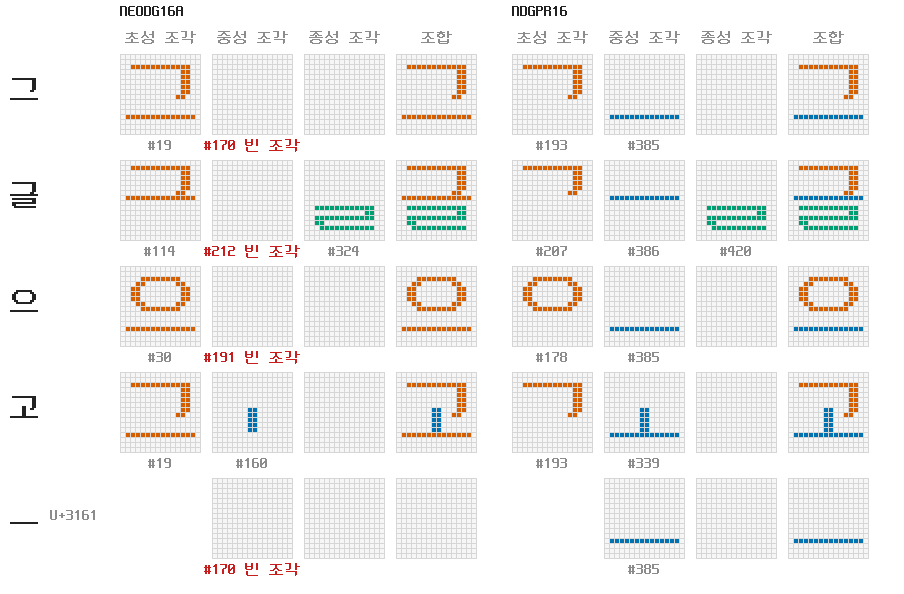
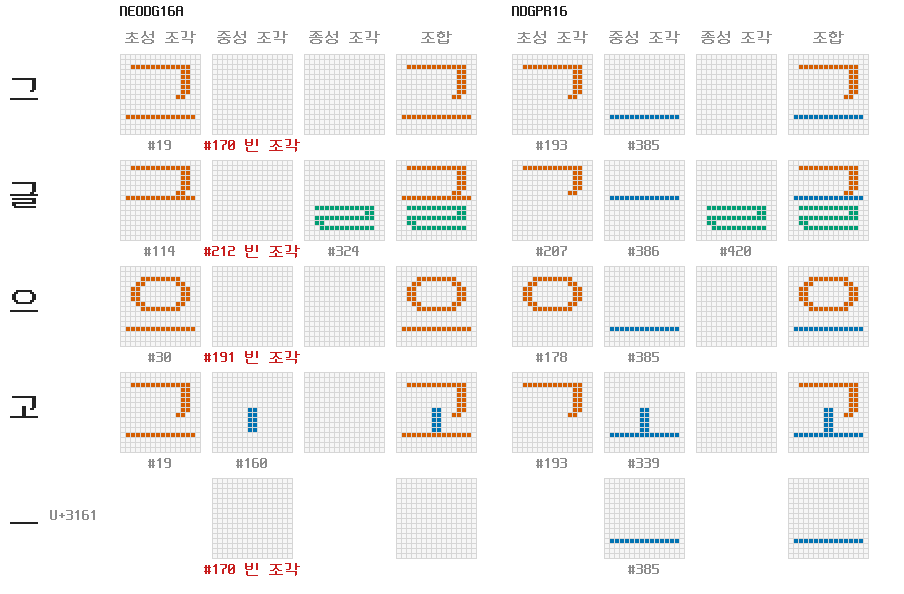
Review round 1: Figure 1 caption (글 bar in both pieces, 꽃), method details from the code (strict pass, speck rule, reassign once, contour assignment order, 2 bpp branch, jamoseg unused), the compat ㅡ fix checked, CPC-400S and NanumSquareRound coverage, research numbers marked, EN tables to match KO;

Changed region(s): [[0.7743, 0.7879, 0.8673, 0.9394], [0.3407, 0.7879, 0.4336, 0.9394]]

diff --git a/tools/doc_figures_split.py b/tools/doc_figures_split.py
@@ -5,7 +5,8 @@
 
 Reads only OFL-licensed fonts of this repository (ALLOWED below; their licence texts sit beside them):
   ttf/nanumgothic/NanumGothic-Regular.ttf  the outline font: baked to 1 bpp precomposed cells by tools/mkfont.py's
-                                           render() (the --clip-cell bake) and fitted to 8x4x4 by jamoset.fit_font,
+                                           render() (mkfont.choose_ascent, no nudge: --clip-cell with that ascent
+                                           given as --ascent) and fitted to 8x4x4 by jamoset.fit_font,
                                            the function `jamoset.py --from-svf` runs (OFL.txt)
   svf/dos/NEODG16.SVF                      Neo Dunggeunmo 16 px precomposed: the comparison and the labels (OFL.TXT)
   svf/dos/NEODG16A.SVF                     its 8x4x4 jamo set, made by `jamoset.py --from-svf` (OFL.TXT)
@@ -149,13 +150,26 @@ class JamoFace:
         return J.compose(self.f, self.t, cp)
 
 
+_FONTS = {}
+
+
+def font_at(size):
+    """(ImageFont, ascent) of NanumGothic Regular at @p size px: the font's ascent rule mkfont.choose_ascent for a
+    @p size px cell (mkfont --clip-cell without --ascent would move it further with fit_ascent; the figures keep the
+    plain rule, as `--ascent` with that value does)."""
+    if size not in _FONTS:
+        import mkfont
+        font = ImageFont.truetype(path_of(TTF), size)
+        _FONTS[size] = (font, mkfont.choose_ascent(font, size))
+    return _FONTS[size]
+
+
 def bake(size, ch, mono=False):
-    """@p ch of NanumGothic Regular drawn by mkfont.render into a @p size px square cell with the font's ascent rule
-    (mkfont.choose_ascent) and no nudge (--clip-cell), packed to 1 bpp by mkfont.pack_glyph. @p mono: FreeType's
-    monochrome hinting (mkfont --mono-hint)."""
+    """@p ch of NanumGothic Regular drawn by mkfont.render into a @p size px square cell at font_at's ascent with no
+    nudge (as --clip-cell), packed to 1 bpp by mkfont.pack_glyph. @p mono: FreeType's monochrome hinting
+    (mkfont --mono-hint)."""
     import mkfont
-    font = ImageFont.truetype(path_of(TTF), size)
-    ascent = mkfont.choose_ascent(font, size)
+    font, ascent = font_at(size)
     old = mkfont.MONO_HINT
     mkfont.MONO_HINT = mono
     try:
@@ -401,7 +415,7 @@ def fig_blank(lab, neo, pro):
                 lab.centre(d, x + cw // 2, y + geo.h * sc + 4, note, FRAME if not (cell and any(cell)) else GREY)
                 if cell:
                     layers.append((cell, colour))
-            if len(parts) < 3:
+            if ch != "ㅡ" and len(parts) < 3:  # a syllable without a final: an empty final box
                 x = x0 + 2 * (cw + gap)
                 bitmap(d, face.geo, x, y, [], sc)
             x = x0 + 3 * (cw + gap)

diff --git a/docs/jamo-split.md b/docs/jamo-split.md
@@ -8,8 +8,10 @@ from a precomposed font, **jamo splitting** (자모 분리), means recovering pi
 describes how the tools of this repository do it, how each kind of source fares, what they do poorly, and what earlier
 attempts taught.
 
-Every number below is measured with the repository's tools (the command or the document it comes from is named) or cited
-from the recipe documents, which record their own runs. The figures are drawn by `python3 -I tools/doc_figures_split.py`
+Chapters 1 to 3 and 6 use numbers measured with the repository's tools (the command or the document it comes from is
+named) or cited from the recipe documents, which record their own runs. Chapter 5 and the numbers marked "in research" in
+chapters 3 and 4 come from earlier research runs, partly on proprietary fonts; they are reported as findings and cannot be
+reproduced from this repository. The figures are drawn by `python3 -I tools/doc_figures_split.py`
 from OFL fonts of this repository only (NanumGothic Regular, Neo Dunggeunmo, Neo Dunggeunmo Pro); `--check` re-renders them
 and compares byte for byte.
 
@@ -48,13 +50,16 @@ syllable by syllable is approximated: a shared piece is a compromise between the
 pieces). Columns: 완성형 = the precomposed glyph; 초성 / 중성 / 종성 조각 = the initial / medial / final piece (# = piece
 number); 조합 (색) = the pieces overlaid (black where two pieces overlap); 차이 = the difference (grey both, orange only in
 the precomposed glyph, sky blue only in the composition). Over the 2,350 KS X 1001 syllables this fit is 15,336 bytes,
-225 syllables exact, mean IoU 0.772. Note 글: the medial ㅡ piece has only stray dots and the bar sits in the final piece.*
+225 syllables exact, mean IoU 0.772. Note 글: both the medial ㅡ piece (#212, with stray dots) and the final piece
+(#324) carry a bar one row below the glyph's own bar, so the composition draws the bar twice in the same wrong row and misses
+the glyph's row (IoU 0.513). In 꽃 the medial ㅗ piece (#223) keeps only a short stem; the final piece draws the bar.*
 
 ### 1.2 Why it is hard
 
 - **Strokes overlap and touch.** In the precomposed glyph the jamo share pixels, so a pixel's owner is not written
   anywhere. Where an initial's foot touches the vowel's bar, the bar can be fitted to either piece and the composition is the
-  same: the fit picks whatever reduces the error, which need not be the jamo the pixel belongs to (figure 1, 글).
+  same: the fit puts a stroke wherever it lowers the error, which need not be the jamo the stroke belongs to (figure 1:
+  the ㅡ bar of 글 in both the medial and the final piece, the ㅗ bar of 꽃 in the final piece).
 - **The same jamo changes shape by context.** The ㄱ of 가, 고 and 각 differ. A layout with few sets forces syllables
   that drew the jamo differently to share a piece. The designer's own grouping of contexts is not in the font
   ([Glyphs forum on divergent Hangul composition setups](https://forum.glyphsapp.com/t/divergent-hangeul-composition-setups/29856)).
@@ -86,7 +91,7 @@ the precomposed glyph, sky blue only in the composition). Over the 2,350 KS X 10
 | `tools/jamofit.py` | the 1 bpp fit (`fit_pieces`), the GSUB mask (`mask_pieces`), the metrics (`iou`, `f1_tol1`, `quality_report`) |
 | `tools/jamoadapt.py` | the adaptive set system: classes by clustering, sets split where the syllables sharing a piece disagree |
 | `tools/jamoaa.py` | 2 bpp: exact-area rasteriser, contours assigned to jamo, median consensus, level refinement under the maximum |
-| `tools/jamoseg.py` | outline segmentation of a syllable into its jamo (library, used by `jamoaa.py` and `jamovec.py`) |
+| `tools/jamoseg.py` | outline segmentation of a syllable into its jamo with path clipping (library; imported by no tool, only by `tools/test_jamoaa.py`; `jamoaa.py` has its own contour assignment, which `jamovec.py` uses) |
 | `tools/jamovec.py` | vector fit: pieces as outlines chosen once at a decision size, rendered to any size |
 | `tools/jamomerge.py` | shrinks a fitted face to a byte budget by merging piece variants, sets and classes |
 | `tools/jamofill.py` | research builder: AND cores of a strike grown into pieces, coordinate descent on a weighted error |
@@ -95,25 +100,31 @@ the precomposed glyph, sky blue only in the composition). Over the 2,350 KS X 10
 
 The maker runs these as **routes** (`maker/routes.py`): *bdfface + from-svf fit* (`bdfface.py` makes a precomposed face
 from BDF files, then `jamoset.py --from-svf`), *experimental fit* (`--from-ttf --binarize threshold --mask-font none`, or
-`--bpp 2`), *mask fit* (`--mask-font` the font itself, only when freetype-py and uharfbuzz are present), *vector fit*
+`--bpp 2`), *mask fit* (`--mask-font` the font itself with `--no-clean`, offered only when the font has the GSUB
+`ljmo` / `vjmo` / `tjmo` features and freetype-py and uharfbuzz load), *vector fit*
 (`jamovec.py master` then `render`) and *composite* (`jamovec.py master --components`). The route table is in
 [Desktop routes](recipes/desktop-routes.md).
 
 ```mermaid
 flowchart TD
   S["precomposed source"] --> K{"what is it?"}
-  K -->|"outline font"| T["jamoset --from-ttf<br/>render the syllables at --size<br/>(mono, threshold or ridge)"]
+  K -->|"outline font, 1 bpp"| T["jamoset --from-ttf<br/>render the syllables at --size<br/>(mono, threshold or ridge)"]
+  K -->|"outline font, 2 bpp"| AA["jamoset --from-ttf --bpp 2<br/>jamoaa.build (2.5)"]
   K -->|"bitmap face, BDF, ROM"| B["bdfface / mkfont<br/>to a 1 bpp precomposed SVF"]
   B --> V["jamoset --from-svf"]
   K -->|"TrueType with composite syllables"| C["jamovec master --components"]
   K -->|"outline, vector route"| M["jamovec master<br/>(segment once at 48 px)"]
-  T --> P["fit_prep: donors, adaptive sets,<br/>clean masks (adaptive or 2 bpp)"]
-  V --> P
+  T --> Q{"adaptive layout<br/>or --clean?"}
+  V --> Q
+  Q -->|yes| P["fit_prep: donors, adaptive sets,<br/>donor masks"]
+  Q -->|no| F
   P --> F["fit_font: pieces by<br/>coordinate descent"]
   F --> R["fit_report: compose with the engine rule,<br/>IoU, exact, F1 tol 1, blobs"]
+  AA --> RA["aa: level error,<br/>IoU at level 2"]
   C --> RV["jamovec render --size --bpp"]
   M --> RV
   R --> O["jamo-set SVF"]
+  RA --> O
   RV --> O
 ```
 
@@ -147,16 +158,18 @@ thermometer planes (one plane at 1 bpp, three at 2 bpp).
 2. **Splits.** For each set, a 2-medians split of its contexts (seeded by the largest item and the item farthest from
    it, up to 8 Lloyd passes). The gain is the drop in summed L1 distance of donors to their (set, jamo) median. The best
    split of all slots is applied while the slot is under its limit, each side has at least 4 syllables and the gain is at
-   least 0.05 % of the starting cost; then up to 4 reassignment rounds.
+   least 0.05 % of the starting cost. When no split qualifies, the loop ends and up to 4 reassignment rounds run once,
+   moving contexts to the set that fits them best.
 3. Contexts with no syllable follow the nearest used context that 8x4x4 puts in the same set.
 
 ```mermaid
 flowchart LR
   A["start: 8x4x4 sets,<br/>12 x 12 classes clustered"] --> B["for every set:<br/>2-medians split of its contexts"]
   B --> C{"best gain >= 0.05 %<br/>and >= 4 syllables a side<br/>and slot under its limit?"}
-  C -->|yes| D["apply the split<br/>reassign (<= 4 rounds)"]
+  C -->|yes| D["apply the split"]
   D --> B
-  C -->|no| E["layout: sets, classes,<br/>parent of each set"]
+  C -->|no| RA["reassign contexts<br/>(<= 4 rounds, once)"]
+  RA --> E["layout: sets, classes,<br/>parent of each set"]
 ```
 
 ### 2.4 The 1 bpp fit (`jamofit.fit_pieces`)
@@ -166,14 +179,18 @@ is **coordinate descent** over pieces in the order initial, medial, final:
 
 - With the other two pieces of every syllable fixed, a pixel of piece k is set when, among the syllables that use k and
   are not already inked there by their other pieces, **more have target ink than not** (a majority; ties stay off).
-- The **first pass is strict**: a pixel is set only if *every* such syllable has ink there (the AND). With a plain majority
-  from the start, the initial would swallow the vowel's ink and the error never falls (the comment in `fit_pieces`).
+- For free pieces and donor masks the **first pass is strict**: a pixel is set only if *every* such syllable has ink there
+  (the AND). With a plain majority from the start, the initial would swallow the vowel's ink and the error never falls
+  (the comment in `fit_pieces`). A GSUB-masked fit starts with the majority: its masks already keep each piece in its
+  jamo's place.
 - A piece may only use pixels inside its mask, if it has one (below).
 - The fit stops after `--passes` (12) passes or when the summed Hamming error stops falling. It is deterministic.
 
 ```mermaid
 flowchart TD
-  I["pieces empty"] --> S["pass 0 (strict):<br/>pixel on where all free users have ink (AND)"]
+  I["pieces empty"] --> G{"GSUB masks?"}
+  G -->|no| S["pass 0 (strict):<br/>pixel on where all free users have ink (AND)"]
+  G -->|yes| L
   S --> L["pass n: for each piece in order<br/>initial, medial, final"]
   L --> V["pixel on where most free users<br/>have ink (majority), inside the mask"]
   V --> E{"Hamming error fell<br/>and n < passes?"}
@@ -188,7 +205,9 @@ flowchart TD
   `--mask-radius` (1 up to 16 px, 2 up to 24 px, else 3), bounds the piece. Without `--mask-font` the tool tries a mask
   font (`$JAMOSET_MASK_FONT`) only when the free fit's mean IoU is below 0.995 (`AUTO_EXACT`).
 - **Donor masks** (`--clean`, on for adaptive and 2 bpp): pixels where at least 25 % of the jamo's donors have coverage,
-  dilated by one pixel; specks of 1 px (2 px above 16 px) that no syllable needs are removed after the fit.
+  dilated by one pixel. They take the place of a mask font when both are given. After the fit, components of up to 1 px
+  (2 px above 16 px) are removed when removing them does not raise the summed Hamming error of the syllables using the
+  piece (a minority of those syllables may still have ink there).
 - None (`--mask-font none --no-clean`): free pieces.
 
 **Unused pieces.** A (set, jamo) no fitted syllable uses (a context the font never draws, often outside KS X 1001 for a
@@ -202,14 +221,19 @@ A 1 bpp fit of thresholded coverage cannot be refined into levels, so 2 bpp is f
 (`jamoset.py --from-ttf --bpp 2`):
 
 1. **Region fit**: a free 1 bpp fit on coverage >= 0.5 with one medial set per tail class, to find where each jamo is.
-2. **Contours to jamo**: each syllable's contours are grouped by containment, and each group goes to the jamo whose region
-   it covers most. A group that straddles two regions and is not 85 % inside one is split pixel by pixel; the same contour
-   in peer syllables decides ambiguous cases.
-3. **Consensus**: each piece is the per-pixel median of its donors' coverage, quantised to levels 0..3; donors further
+2. **Contours to jamo**: each syllable's contours are grouped by containment. For each group, **peer syllables decide
+   first**: when the syllables that share a jamo with this one agree clearly on where the same contour belongs, the group
+   goes there (this keeps the ㅗ / ㅜ / ㅡ bars that the region fit misplaces with their vowel). A group the peers do not
+   settle and that straddles two regions (not 85 % inside one) is split pixel by pixel, the peers' pixels deciding; the
+   other unsettled groups are also split by the peers' pixels. Only where no peer pixels exist does a group go whole to
+   the region it overlaps most.
+3. **Sets** (with `--layout adaptive`): `jamoadapt.adapt` runs on these donors (2.3).
+4. **Consensus**: each piece is the per-pixel median of its donors' coverage, quantised to levels 0..3; donors further
    than median + 3 x 1.4826 x MAD (with at least 5 donors) are dropped.
-4. **Refinement**: coordinate descent on levels: each pixel takes the level in {current, 0, 1, 2, 3} that minimises the sum
-   over its syllables of |max(level, other pieces) - target|, for `--aa-refine` passes (2).
-5. **Clean**: level-1 pixels stay only where half the donors have ink; small components without a level-3 pixel go.
+5. **Refinement**: coordinate descent on levels: each pixel takes the level in {current, 0, 1, 2, 3} that minimises the sum
+   over its syllables of |max(level, other pieces) - target|, for `--aa-refine` passes (2); with `--clean` (the 2 bpp
+   default) only inside the donor masks.
+6. **Clean**: level-1 pixels stay only where half the donors have ink; small components without a level-3 pixel go.
 
 The maximum has a floor no piece set removes: where two jamo cover disjoint halves of one pixel, the precomposed glyph's
 coverage adds up and the maximum of the pieces does not (`join_loss`).
@@ -220,7 +244,8 @@ coverage adds up and the maximum of the pieces does not (`join_loss`).
 components with `--components`), lays out 8x4x4 or adaptive sets, and keeps for each piece the **medoid donor's own
 contours** (the clean donor closest to the per-pixel median). `render` rasterises those outlines at any size with no
 fitting. The pieces are therefore the font's own shapes, not pixels chosen to minimise an error, and the same master gives
-every size. The cost is time: `master` took 172 s on NanumGothic ([Maker capability audit](maker-audit.md)) and 25 s on
+every size. The cost is time: `master` took 172 s on NanumGothic on a heavily loaded machine
+([Maker capability audit](maker-audit.md)) and 25 s on
 Neo Dunggeunmo with `--components` ([Outline fonts](recipes/outline-fonts.md#jamo-sets-from-truetype-and-opentype-fonts)).
 
 ### 2.7 After the fit: shrinking and exceptions
@@ -301,11 +326,20 @@ NanumGothic fit of figure 1: KS 2,350, 225 exact, IoU 0.772; the per-syllable Io
 ### 3.2 Real precomposed designs
 
 Designs drawn syllable by syllable never fit exactly, and more sets keep helping. The faces in `svf/jamo-extra/` are fitted
-with 12 x 12 classes and 24/16/16 sets ([FACES.TSV](../svf/jamo-extra/FACES.TSV)); mean IoU over all syllables at 16 px:
-Gothic A1 Regular 0.9411 (KS 0.9521, corpus-weighted 0.9769), Gothic A1 Bold 0.9595, NanumSquareRound Regular 0.9716,
-Bold 0.9760, and Single Day 0.9977 (8 x 8 classes; a hand-lettered design close to an OR of pieces). The corpus-weighted
-column is higher because the pieces were chosen with usage weights, so frequent syllables are drawn closest. Bytes at 16 px:
-69,797 (Gothic A1) against about 357,504 for 11,172 whole 16x16 cells.
+with 12 x 12 classes and 24/16/16 sets ([FACES.TSV](../svf/jamo-extra/FACES.TSV)). Mean IoU at 16 px over every syllable
+the font draws:
+
+| Font | Syllables drawn | Mean IoU | Note |
+|---|---:|---:|---|
+| Gothic A1 Regular | 11,172 | 0.9411 | KS 0.9521, corpus-weighted 0.9769 |
+| Gothic A1 Bold | 11,172 | 0.9595 | |
+| NanumSquareRound Regular | 2,479 | 0.9716 | |
+| NanumSquareRound Bold | 2,479 | 0.9760 | |
+| Single Day | 11,172 | 0.9977 | 8 x 8 classes; a hand-lettered design close to an OR of pieces |
+
+NanumSquareRound draws only 2,479 syllables, so its score covers fewer and mostly common syllables than Gothic A1's. The
+corpus-weighted column is higher because the pieces were chosen with usage weights, so frequent syllables are drawn
+closest. Bytes at 16 px: 69,797 (Gothic A1) against about 357,504 for 11,172 whole 16x16 cells.
 
 ### 3.3 Small pixel fonts: the blank medial ㅡ
 
@@ -320,17 +354,27 @@ glyph for U+3161 and draws it; `NEODG16G` (6x2x1) and Neo Dunggeunmo Pro `NDGPR1
 *Figure 4. 그 글 으 고 and the compatibility jamo ㅡ (U+3161) in `NEODG16A` (left) and `NDGPR16` (right). "빈 조각" = an
 inkless piece. The compositions agree; the pieces do not.*
 
-The way out is to give the compatibility jamo a whole glyph (`--chars` with the compatibility jamo, as `NEODG16C`) or a
-LIST entry with a piece that has the bar (`jamoexc.py`, `"ㅡ": {"pieces": [n]}`).
+The way out is to give the compatibility jamo whole glyphs. Bake them into the precomposed source
+(`mkfont.py ... --unicode ascii,ksx1001-hangul,3131-3163`); `jamoset.py --from-svf` keeps a whole glyph for every
+compatibility jamo the source draws and points the JSET entry at it instead of at a piece (checked: Neo Dunggeunmo baked
+that way and fitted to 8x4x4 is exact on the 2,350 syllables, and U+3161 draws its 14 px bar). For an existing face,
+`jamoexc.py` can add `"ㅡ": {"whole": "HEX"}`: no piece of `NEODG16A` holds the bar alone, so a `"pieces"` entry cannot
+draw it, and a LIST needs at least one syllable entry besides compatibility jamo.
 
 ### 3.4 ROM fonts
 
-The ROM fonts are 16x16 precomposed grids. Whether they fit depends on how they were drawn, not on the medium: the three
-86Box Korean VGA ROMs fit 8x4x4 to 0.968 (Trigem, 1,576 exact), 0.919 (ATI, 644) and 0.872 (Kasan, 290)
-([86Box ROMs](recipes/rom-86box.md)); the MSX CPC-400S 256 KB font to 0.794 (83 exact; [MSX ROMs](recipes/rom-msx.md));
-Quiz King of Fighters to 0.835 with 8x4x4 and 0.975 adaptive (62,084 bytes against 123,640 precomposed), and the recipe keeps
-the precomposed face ([MAME ROMs](recipes/rom-mame.md#quiz-king-of-fighters-korea-a-2350-syllable-font-with-an-outline-pen)).
-A ROM holds only the KS 2,350 (CPC-400S lacks 133 of them), so every other syllable is extrapolated.
+The ROM fonts are 16x16 precomposed grids. Whether they fit depends on how they were drawn, not on the medium:
+
+| ROM | 8x4x4 IoU (exact) | Note | Source |
+|---|---|---|---|
+| 86Box Trigem | 0.968 (1,576) | | [86Box ROMs](recipes/rom-86box.md) |
+| 86Box ATI | 0.919 (644) | | [86Box ROMs](recipes/rom-86box.md) |
+| 86Box Kasan | 0.872 (290) | | [86Box ROMs](recipes/rom-86box.md) |
+| MSX CPC-400S 256 KB | 0.794 (83) | | [MSX ROMs](recipes/rom-msx.md) |
+| Quiz King of Fighters | 0.835 | adaptive 0.975 (62,084 bytes against 123,640 precomposed); the recipe keeps the precomposed face | [MAME ROMs](recipes/rom-mame.md#quiz-king-of-fighters-korea-a-2350-syllable-font-with-an-outline-pen) |
+
+Most of these ROMs hold the KS 2,350 and nothing else. CPC-400S holds 2,591 syllables: 2,217 of the KS 2,350 (133 are
+missing) and 374 outside KS that its driver's lists name. Every syllable the ROM lacks is extrapolated.
 
 ### 3.5 Mac HangulTalk table fonts
 
@@ -369,8 +413,8 @@ adaptive faces are much closer: Gothic A1 16 px 2 bpp 0.0297 (level difference /
 When a few frequent syllables are wrong, `jamoexc.py` stores them whole: at most 255 entries, 118 + 8 x N bytes of entries
 plus the whole cells. In the research on two proprietary 12 px fonts, adding a LIST of whole syllables gained about three
 times as much usage-weighted IoU per KB as adding uniform sets (0.134 against 0.045) and was smaller than isolating those
-syllables with extra classes at every count tried (section 5). The 100 most frequent syllables of a corpus of Korean game
-translations cover 68 % of the text, the 300 most frequent 88 %.
+syllables with extra classes at every count tried (section 5). In the same research, the 100 most frequent syllables of a
+corpus of Korean game translations covered 68 % of the text, the 300 most frequent 88 %.
 
 ### 3.9 When to keep the precomposed face
 
@@ -382,8 +426,8 @@ syllables are needed and the source is close to an OR of pieces.
 ## 4. What we do poorly
 
 1. **Small sizes.** At 12-16 px every measure falls. NanumGothic Regular reaches only 0.733 / 0.707 mean IoU in 8x4x4 at
-   12 / 16 px, with the 5th percentile at 0.40 (3.6). Strokes touch (figure 2: at 12 px with monochrome hinting the mean
-   component count drops from 3.13 to 2.03) and hinting moves each syllable's strokes differently, so no single piece can
+   12 / 16 px, with the 5th percentile at 0.40 (3.6). Strokes touch (1.2: the mean component count is 3.13 at 32 px and
+   2.03 at 12 px with monochrome hinting; figure 2 shows examples) and hinting moves each syllable's strokes differently, so no single piece can
    serve all the syllables. In research, 12 px faces built from a proprietary font's own conjoining pieces reached a mean
    IoU of 0.58 against its hinted precomposed glyphs, with 822 of 2,350 syllables below 0.5.
 2. **Pixel IoU is not identity.** IoU counts pixels; a reader needs strokes. A fit can score well and still give the ㅡ
@@ -406,11 +450,11 @@ syllables are needed and the source is close to an OR of pieces.
    4,192 of them from the nearest context; ROM fonts and KS-only faces extrapolate every one. No measure exists for them:
    the IoU is over the syllables the font draws.
 8. **Set-count and class limits.** The standard JSET allows 32 / 24 / 16 sets and 12 x 12 classes (BIG 128 / 128 / 64,
-   19 x 28). An exact split of a 12 px pixel font needed far more (114 / 37 / 33 sets, or 65 / 91 / 41 with honest pieces
+   19 x 28). In research, an exact split of a 12 px pixel font needed far more (114 / 37 / 33 sets, or 65 / 91 / 41 with honest pieces
    and a 19 x 27 class grid, section 5); a refinement loop on 12 px gothic faces was refused a split 73-376 times by the
    limits.
 9. **Speed.** A fixed-layout fit takes 10-15 s on an outline font, adaptive about a minute (66.8 s at 16 px; Gowun Batang
-   Bold 20 px 89 s), 2 bpp over a minute (72.7 s), and a vector master minutes (172 s). The maker's mask fit has never been
+   Bold 20 px 89 s), 2 bpp over a minute (72.7 s), and a vector master minutes (172 s on a heavily loaded machine). The maker's mask fit has never been
    run in the maker.
 10. **Two routes of one name differ.** The maker page's *bdfface + from-svf fit* passes no `--mask-font`, so where a mask font
    and the libraries are present a fit below IoU 0.995 is masked; the built-in recipe of the same name passes
@@ -425,7 +469,7 @@ references; only the findings are reported here, no data from them.
 |---|---|---|---|---|
 | 2026-10-15 to 10-22 | jamo sets from any precomposed font | pixel fits with a fixed 8x4x4, then a plan to split outlines once at 128-256 px with path booleans and decide ambiguous cuts by a vision model | pixel fits "looked wrong on 가 / 고 even with good IoU"; picks by a model and a fixed rule differed by less than 1 px a syllable at 12-40 px, so the error was in grouping and in which donor became the piece | adaptive sets and vector segmentation kept (`jamoadapt.py`, `jamoseg.py`, `jamovec.py`); exact fitting given up as a goal ("don't try to fit it exactly") |
 | 2026-10-23 to 10-26 | smaller tables | JSET version 2: the same tables in bits | the largest block 12,321 → 9,246 bytes; 95 faces 652,431 → 310,160 bytes (47.5 %) | kept: version 1 the standard, version 2 where it pays |
-| 2026-10-24 | small-size (12-16 px) pieces, "approach P" | for each jamo a native prototype piece (from bitmap strikes and Mac planes, never cut from small syllables) placed within ±1 px, under a table of 228 features | judged by an automatic count of vanished strokes, it seemed to win | rebuilt: the user ruled that each jamo keeps its base form, overlap is acceptable and a lost stroke is not, and that jamo are never split at a small size |
+| 2026-10-24 | small-size (12-16 px) pieces, "approach P" | for each jamo a native prototype piece (from bitmap strikes and Mac planes, never cut from small syllables) placed within ±1 px, under a table of 228 features | judged by an automatic count of vanished strokes, it seemed to win | rebuilt: the maintainer decided that each jamo keeps its base form, overlap is acceptable and a lost stroke is not, and that jamo are never split at a small size |
 | 2026-10-25 | the same, rebuilt | features in tiers (identity / structure / finish), identity a hard constraint | whole-stroke losses 0 in all six test cells, but the old count rose (e.g. 284 → 601) | the old count dropped as a yardstick: 78-89 % of its entries were displaced strokes, and it missed 86-100 % of the slots that lost identity |
 | 2026-10-26 | a judge that agrees with people | judge v2 (100 x identity + 10 x structure + finish), then v2.1 / v2.2 learning which strokes may touch from many design families | v2 ranked hand-made strikes best at 12 px; a blind check of 60 syllables ranked hand 1.25 < P 2.18 < plain 2.57; tuning P against v2 gamed it (merges 28 → 163); at 16 px every version ranked P above the hand strike | 12 px only; a judge built from the candidate's own pieces is circular |
 | 2026-10-26 | 12 px faces of three OFL gothic fonts with a refinement loop | 32 / 22-24 / 12-15 sets, loop on judge v2.2 | the loop lowered its own score by about 30 %; the set limits refused a split 73 / 376 / 139 times; 835-1,018 of 2,350 syllables got worse on at least one measure | paused: no independent check |
@@ -433,7 +477,8 @@ references; only the findings are reported here, no data from them.
 | 2026-10-26 | Mac fonts in SVF | the original table as JMAP; a derived JSET (2.8) | Seoul12 exact on KS in both; derived needs guesses outside KS | the original structure is canonical; derived faces only for small targets |
 | 2026-10-26 to 10-27 | a 12 px face in 8 KB for a small MCU | pieces from other faces; Seoul12 shrunk by `jamomerge.py` | pieces taken from another design read worse than the source and showed noise dots, ㅡ ㅜ ㅗ that could not be told apart and a ㄲ without its bar; Seoul12 shrunk to 8,160 / 7,012 / 6,144 / 5,548 bytes | Seoul12 kept as the small preset; a hard-coded composition for one font (0.5-1 KB gain) abandoned for the table-driven form |
 | 2026-10-27 to 10-28 | 12 px faces from fonts' own conjoining (GSUB) pieces | the font's positional variants as pieces; more sets; LIST of whole syllables | mean IoU 0.58 against the hinted glyphs (layout differs, ±1 px shift only reaches 0.64); a stroke filter costs about 0.03 IoU; LIST beat extra classes at every size and gained 0.134 IoU per KB against 0.045 for sets; split-half check 0.812 / 0.813 (no overfitting) | decomposing whole precomposed glyphs dropped at 12 px; the format judged expressive enough: the gaps are in pieces and evaluators |
-| 2026-11-09 | | | | segmentation research stopped for now; the tools stay as they are |
+| 2026-11-01 | | | | the follow-up face-quality research (evaluation-driven piece search, layout correction, evaluator reliability) cancelled; the findings kept in the research notes |
+| 2026-11-09 | | | | jamo segmentation research stopped for now; the tools stay as they are |
 
 **What was learned.**
 
